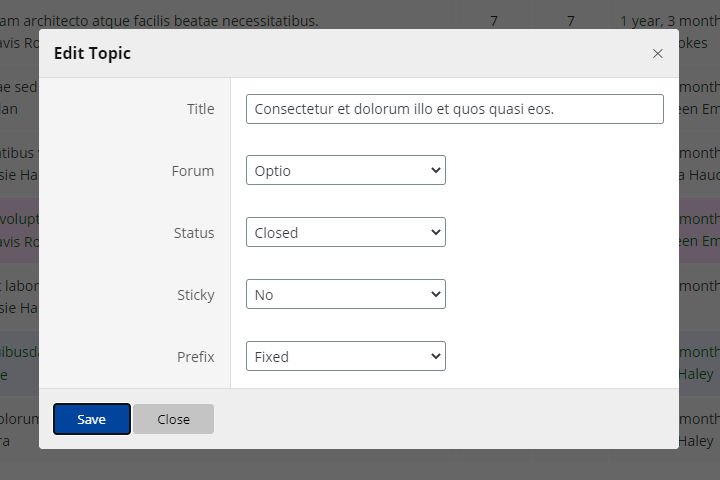
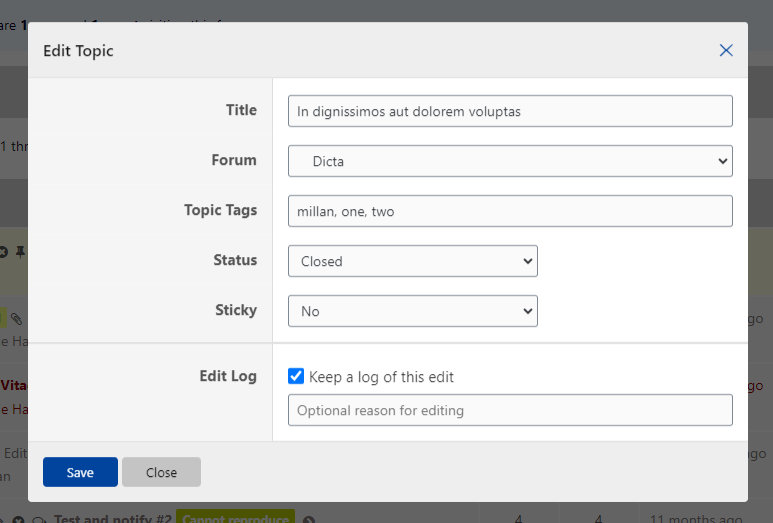
Many improvements.

Changed region(s): [[0.0, 0.0312, 1.0, 1.0], [0.2444, 0.5625, 0.7028, 0.6562]]

diff --git a/core/bbpress/Integration.php b/core/bbpress/Integration.php
@@ -12,17 +12,11 @@ class Integration {
 	public $_key = 1;
 
 	public function __construct() {
-		if ( is_user_logged_in() && !is_admin() ) {
-			add_action( 'bbp_init', array( $this, 'init' ) );
-		} else {
-			define( 'GDFAR_EDITOR_ACTIVE', false );
-		}
+		add_action( 'gdfar_plugin_init', array( $this, 'init' ) );
 	}
 
 	public function init() {
-		if ( gdfar()->allowed() ) {
-			define( 'GDFAR_EDITOR_ACTIVE', true );
-
+		if ( GDFAR_EDITOR_ACTIVE ) {
 			if ( gdfar_settings()->get( 'forum' ) ) {
 				add_action( 'bbp_theme_before_forum_title', array( $this, 'forum_controls' ), 1 );
 				add_action( 'bbp_template_after_forums_loop', array( $this, 'forum_bulk' ) );
@@ -37,8 +31,6 @@ class Integration {
 			if ( gdfar_settings()->get( 'small_screen_always_show' ) ) {
 				$this->_always_on = true;
 			}
-		} else {
-			define( 'GDFAR_EDITOR_ACTIVE', false );
 		}
 	}
 

diff --git a/forms/content-about-changelog.php b/forms/content-about-changelog.php
@@ -10,6 +10,7 @@
             <li><strong>new</strong> option to control saving of the edit log or topics</li>
             <li><strong>new</strong> fire actions before and after ajax processing calls</li>
             <li><strong>new</strong> filters to modify Edit and Quick Edit button HTML content</li>
+            <li><strong>edit</strong> many improvements to the plugin initialization</li>
             <li><strong>edit</strong> various improvements to the plugin core code</li>
             <li><strong>edit</strong> several styling improvements and changes to popup dialog</li>
             <li><strong>edit</strong> more compact styling layout for the dialog elements</li>

diff --git a/core/basic/Plugin.php b/core/basic/Plugin.php
@@ -17,6 +17,7 @@ class Plugin extends Core {
 	public $plugin = 'gd-forum-manager-for-bbpress';
 
 	private $_datetime;
+	private $_active = false;
 	private $_bbpress = null;
 	private $_actions = null;
 	private $_roles = array();
@@ -129,6 +130,12 @@ class Plugin extends Core {
 	}
 
 	public function plugin_init() {
+		if ( ! is_admin() && is_user_logged_in() && $this->allowed() ) {
+			$this->_active = true;
+		}
+
+		define( 'GDFAR_EDITOR_ACTIVE', $this->_active );
+
 		do_action( 'gdfar_plugin_init' );
 	}
 

diff --git a/gd-forum-manager-for-bbpress.php b/gd-forum-manager-for-bbpress.php
@@ -9,7 +9,7 @@ Author URI:        https://www.dev4press.com/
 Text Domain:       gd-forum-manager-for-bbpress
 Version:           2.0
 Requires at least: 5.0
-Tested up to:      5.6
+Tested up to:      5.7
 Requires PHP:      7.0
 License:           GPLv3 or later
 License URI:       http://www.gnu.org/licenses/gpl-3.0.html
